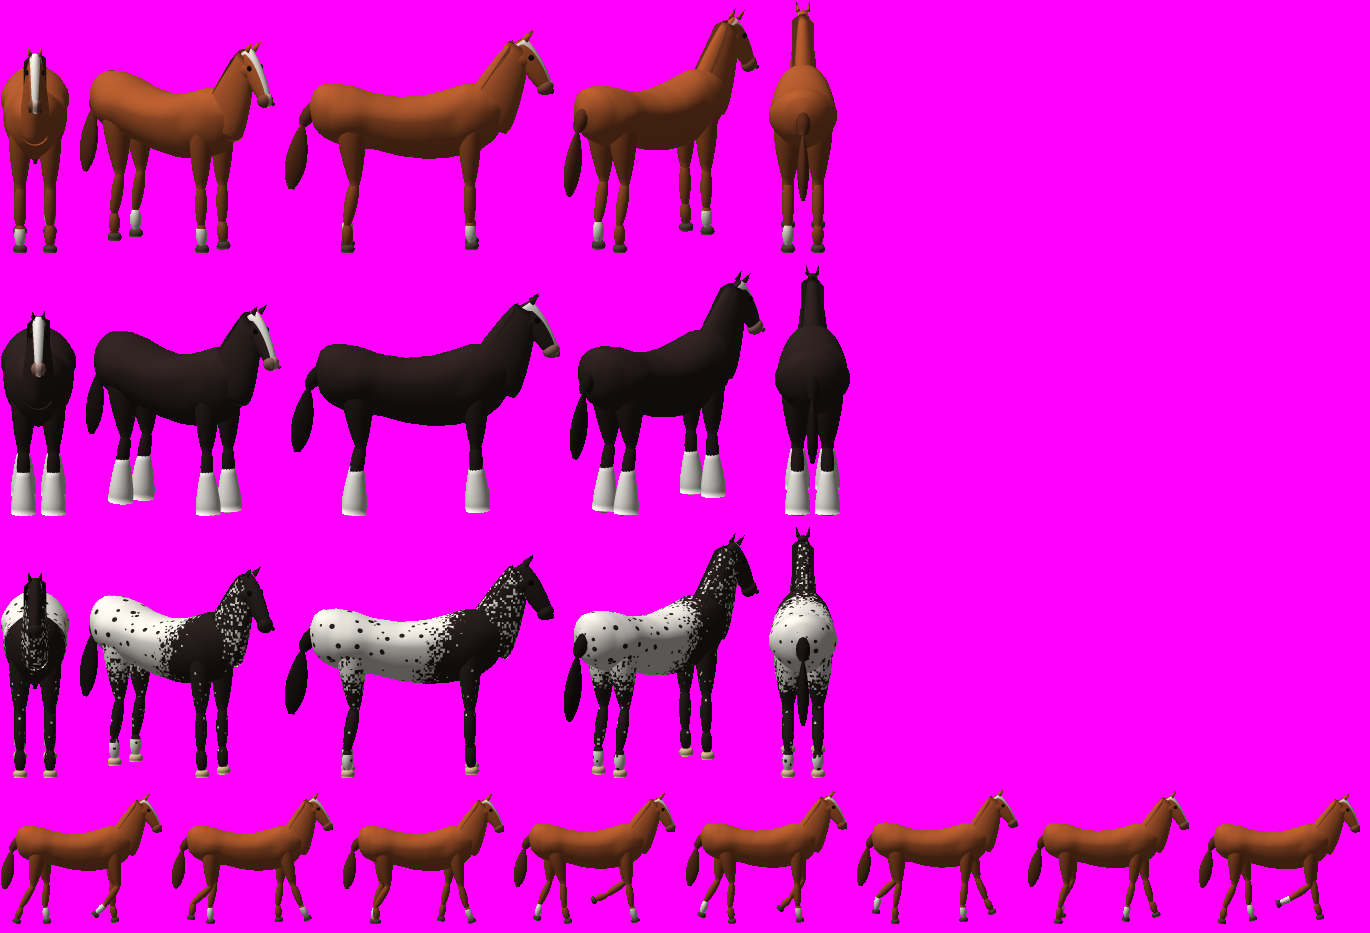
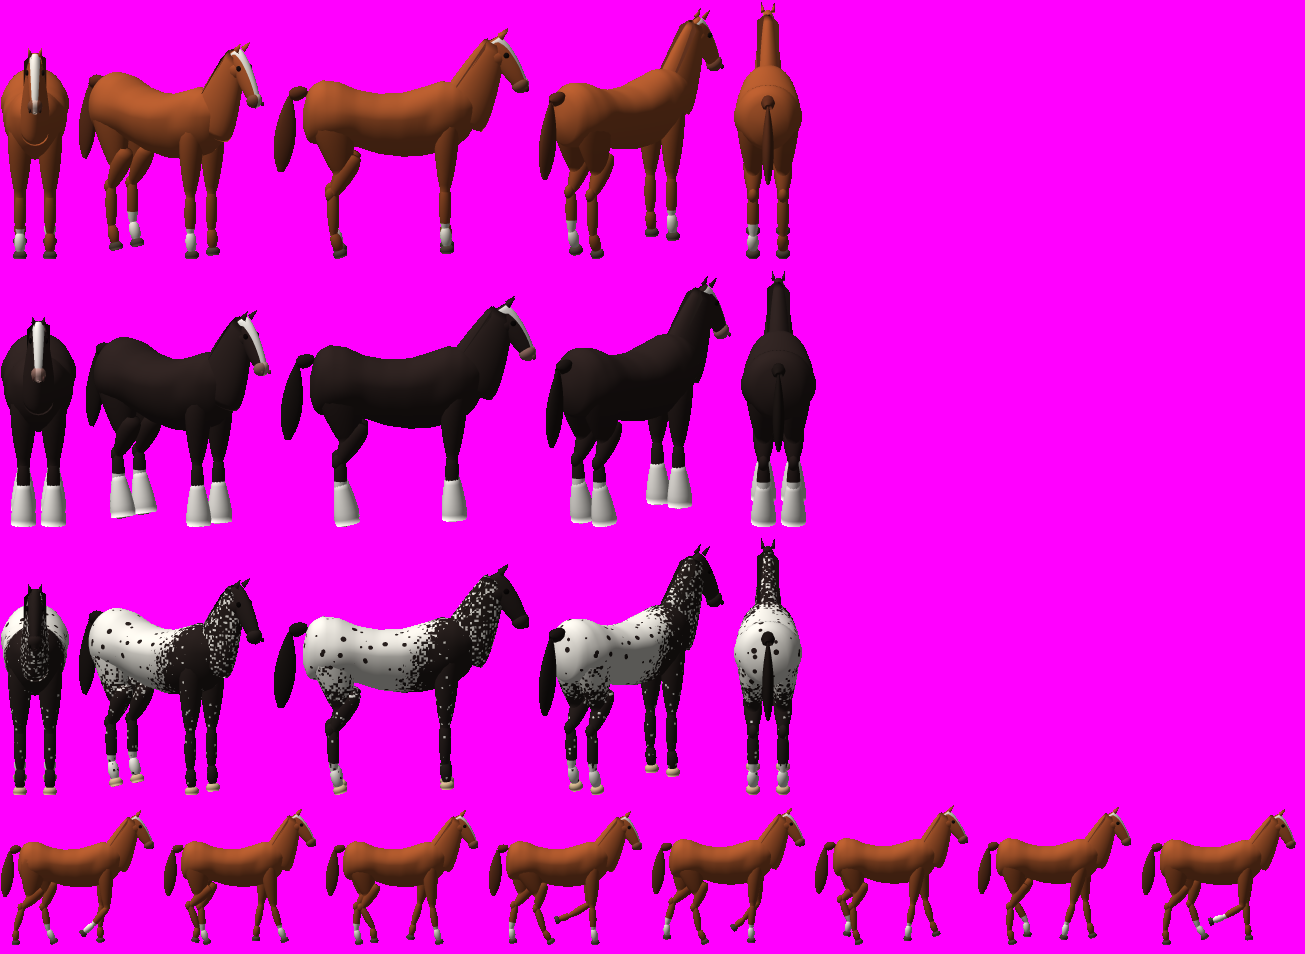
Horse model: rear after Maestro's MM7 Augmentation horses (shorter trunk, high round croup and buttock, thigh down to the stifle, gaskin back to a clear hock, upright cannon, tail set high and falling close); legs posed by swing and fold
Claude-Session: https://claude.ai/code/session_0181Jni9kZvd4mFTeovm6zfw

diff --git a/Tools/horse_model.py b/Tools/horse_model.py
@@ -86,12 +86,12 @@ def ribbon(g, pts, offs, part):
         g.quad(a, b, b + offs[i + 1], a + offs[i], part)
 
 # trunk stations: x, centre height, radius up, radius down, half width
-TRUNK = [(-102, 141, 5, 7, 5), (-98, 141, 17, 20, 16), (-90, 140, 24, 28, 25), (-76, 139, 26, 34, 30),
-         (-58, 137, 25, 37, 31), (-38, 134, 21, 35, 31), (-12, 131, 20, 39, 32), (14, 131, 22, 42, 32),
-         (36, 134, 25, 44, 30), (54, 137, 28, 43, 27), (70, 139, 25, 40, 24), (82, 140, 18, 32, 19),
-         (91, 141, 10, 20, 12), (97, 142, 3, 6, 4)]
+TRUNK = [(-92, 128, 8, 10, 7), (-89, 131, 20, 24, 19), (-83, 134, 27, 32, 26), (-72, 137, 29, 36, 30),
+         (-56, 137, 27, 37, 31), (-38, 134, 22, 35, 31), (-16, 131, 21, 39, 32), (8, 131, 22, 42, 32),
+         (28, 134, 25, 44, 30), (46, 137, 28, 43, 27), (61, 139, 25, 40, 24), (72, 140, 18, 32, 19),
+         (80, 141, 10, 20, 12), (85, 142, 3, 6, 4)]
 # the shoulder (front) and the hip (back) stand out from the sides: (x, y, rx, ry, extra width)
-MUSCLES = [(56, 120, 20, 26, 3.5), (-64, 132, 24, 26, 4.0)]
+MUSCLES = [(48, 120, 20, 26, 3.5), (-60, 124, 26, 30, 4.5)]
 
 def trunk(g, xf, heavy, n=32, k=46):
     st = np.array(TRUNK, float)
@@ -120,16 +120,24 @@ def trunk(g, xf, heavy, n=32, k=46):
 
 # ---------------------------------------------------------------- the horse
 
-FRONT_X, HIND_X, LEG_Z = 58, -62, 15
-FRONT = (46, 38, 24)          # forearm, cannon, pastern (elbow to the ground)
-HIND = (52, 42, 24)           # gaskin, cannon, pastern (stifle to the ground)
+FRONT_X, HIND_X, LEG_Z = 50, -58, 15
+FRONT = (46, 38, 22)          # forearm, cannon, pastern (elbow to the ground)
+HIND = (46, 40, 21)           # gaskin, cannon, pastern (stifle to the ground)
+HIP_Y, STIFLE = 132, np.array((18.0, -40.0))     # the stifle lies forward and below the hip
 
 def leg_points(top, lengths, angles):
-    pts = [np.asarray(top, float)]; a = 0.0
-    for L, d in zip(lengths, angles):
-        a += d
+    """angles: absolute, from straight down (+ forward)"""
+    pts = [np.asarray(top, float)]
+    for L, a in zip(lengths, angles):
         pts.append(pts[-1] + (L * math.sin(a), -L * math.cos(a), 0))
     return pts
+
+def leg_angles(name, theta, flex):
+    """theta swings the whole leg (+ forward), flex folds it (0 straight .. 1 folded for a step):
+    the foreleg's knee bends the cannon back, the hind hock bends it forward; the hoof flips back."""
+    if name[1] == 'f':
+        return (theta, theta - 1.05 * flex, theta + 0.1 - 1.4 * flex)
+    return (theta - 0.5 - 0.25 * flex, theta + 0.02 + 0.45 * flex, theta + 0.32 - 0.5 * flex)
 
 def geometry(pose, heavy=1.0, feathers=False):
     g = Geo()
@@ -144,7 +152,7 @@ def geometry(pose, heavy=1.0, feathers=False):
     trunk(g, xf, heavy)
     # neck
     na, ha = pose.get('neck', 0.0), pose.get('head', 0.0)
-    base = xf((76, 148, 0))
+    base = xf((68, 148, 0))
     a1 = math.radians(60) + na + pitch
     ndir = np.array([math.cos(a1), math.sin(a1), 0])
     nup = np.array([-ndir[1], ndir[0], 0])                  # towards the crest
@@ -174,20 +182,31 @@ def geometry(pose, heavy=1.0, feathers=False):
     ribbon(g, [f0, f0 + hd * 14], [np.array((0, 0, 4.5)), np.array((0, 0, -4.5))], 'mane')
     # tail: a dock and a fall of hair
     ta, ts = pose.get('tail', 0.0), pose.get('tail_side', 0.0)
-    t0 = xf((-97, 146, 0))
-    t1 = t0 + np.array([-math.sin(math.radians(28) + ta), -math.cos(math.radians(28) + ta), ts * 0.3]) * 26
-    t2 = t1 + np.array([-0.18 + 0.4 * math.sin(ta), -1, ts]) / 1.05 * 68
+    t0 = xf((-88, 156, 0))
+    t1 = t0 + np.array([-math.sin(math.radians(72) + ta), -math.cos(math.radians(72) + ta), ts * 0.3]) * 18
+    t2 = t1 + np.array([-0.12 + 0.4 * math.sin(ta), -1, ts]) / 1.01 * 78
     limb(g, t0, t1, 6, 8, 'tail', n=8, k=5)
     limb(g, t1, t2, 8.5, 12.5, 'tail', n=12, k=8, flat=0.55, cap=0.7)
     # legs
-    for name, x, z, lengths, ur in (('lf', FRONT_X, LEG_Z, FRONT, 14.0), ('rf', FRONT_X, -LEG_Z, FRONT, 14.0),
-                                     ('lh', HIND_X, LEG_Z, HIND, 19.0), ('rh', HIND_X, -LEG_Z, HIND, 19.0)):
-        topp = xf((x, 110 if name[1] == 'f' else 116, z))
-        pts = leg_points(topp, lengths, pose['legs'][name])
+    for name, x, z in (('lf', FRONT_X, LEG_Z), ('rf', FRONT_X, -LEG_Z), ('lh', HIND_X, LEG_Z), ('rh', HIND_X, -LEG_Z)):
+        theta, flex = pose['legs'][name]
         part = 'leg_' + name
-        limb(g, pts[0] + (0, 26, 0), pts[1], ur * heavy, 7.4 * heavy, part, n=14, k=10, cap=0.25)
+        if name[1] == 'f':
+            top = xf((x, 102, z))
+            pts = leg_points(top, FRONT, leg_angles(name, theta + pitch, flex))
+            limb(g, top + (2, 30, 0), pts[1], 15 * heavy, 7.4 * heavy, part, n=14, k=10, cap=0.25)   # forearm
+        else:
+            hip = xf((x, HIP_Y, z))
+            c, s_ = math.cos(theta + pitch), math.sin(theta + pitch)
+            stifle = hip + (STIFLE[0] * c - STIFLE[1] * s_, STIFLE[0] * s_ + STIFLE[1] * c, 0)
+            pts = leg_points(stifle, HIND, leg_angles(name, theta + pitch, flex))
+            # the thigh: the hip's muscle mass down to the stifle and the back of the gaskin
+            mid = stifle * 0.55 + pts[1] * 0.45
+            limb(g, hip + (-8, 14, 0), mid + (-3, 0, 0), 27 * heavy, 12 * heavy, part, n=16, k=12, flat=0.74, cap=0.2)
+            limb(g, stifle, pts[1], 12 * heavy, 6.5 * heavy, part, n=14, k=8, cap=0.3)               # gaskin
+            ellipsoid(g, pts[1] + (-2.5, 1, 0), 5.5 * heavy, 7.5 * heavy, 5.0 * heavy, part, n=10, k=6)  # point of hock
         u1 = (pts[2] - pts[1]) / np.linalg.norm(pts[2] - pts[1])
-        limb(g, pts[1] - u1 * 5, pts[2] + u1 * 3, 6.6 * heavy, 5.6 * heavy, part, n=12, k=7, cap=0.45)   # knee / hock to fetlock
+        limb(g, pts[1] - u1 * 5, pts[2] + u1 * 3, 6.6 * heavy, 5.6 * heavy, part, n=12, k=7, cap=0.45)   # cannon
         limb(g, pts[2] - u1 * 3, pts[3] + (pts[2] - pts[3]) * 0.12, 6.0 * heavy, 5.6 * heavy, part, n=12, k=5, cap=0.45)
         d = pts[3] - pts[2]; d /= np.linalg.norm(d)
         limb(g, pts[3] - d * 5, pts[3] + d * 2.5, 6.6 * heavy, 7.6 * heavy, 'hoof', n=14, k=3, cap=0.12)
@@ -220,9 +239,9 @@ def spots(P, size, density, seed=1, rmin=0.18, rmax=0.42):
 def mix(mask, a, b):
     return np.where(mask[:, None], np.array(a, float), np.array(b, float))
 
-REST = {'legs': {'lf': (0.0, 0.0, 0.08), 'rf': (0.0, 0.0, 0.08), 'lh': (0.1, -0.3, 0.24), 'rh': (0.1, -0.3, 0.24)}}
+REST = {'legs': {'lf': (0.0, 0.0), 'rf': (0.0, 0.0), 'lh': (0.0, 0.0), 'rh': (0.0, 0.0)}}
 _a1 = math.radians(60); _a2 = math.radians(-58)
-REST_HEAD_TOP = np.array((76, 148, 0)) + np.array([math.cos(_a1), math.sin(_a1), 0]) * 64
+REST_HEAD_TOP = np.array((68, 148, 0)) + np.array([math.cos(_a1), math.sin(_a1), 0]) * 64
 REST_HD = np.array([math.cos(_a2), math.sin(_a2), 0])
 REST_UP = np.array([-REST_HD[1], REST_HD[0], 0]) * (1 if REST_HD[0] >= 0 else -1)
 
@@ -298,21 +317,16 @@ STAND = REST['legs']
 
 def walk_pose(phase):
     """Four-beat walk: left hind, left fore, right hind, right fore a quarter apart; a leg spends
-    35% of the cycle in the air, its knee / hock folding and the hoof flipping back."""
+    35% of the cycle in the air (swinging forward, folded), and the rest on the ground, swinging
+    back as the body passes over the hoof."""
     legs = {}
     for name, off in (('lh', 0.0), ('lf', 0.25), ('rh', 0.5), ('rf', 0.75)):
         ph = (phase + off) % 1.0
-        if ph < 0.35:                                    # swing
-            s = math.sin(math.pi * ph / 0.35); u = ph / 0.35
-            if name[1] == 'f':
-                legs[name] = (-0.22 + 0.62 * u, -1.05 * s, -0.35 * s + 0.08)
-            else:
-                legs[name] = (-0.22 + 0.58 * u, -0.3 - 0.55 * s, 0.24 + 0.55 * s)
-        else:                                            # stance: the hoof stays, the body passes over
+        if ph < 0.35:
+            u = ph / 0.35
+            legs[name] = (-0.3 + 0.6 * u, math.sin(math.pi * u))
+        else:
             u = (ph - 0.35) / 0.65
-            if name[1] == 'f':
-                legs[name] = (0.4 - 0.62 * u, 0.0, 0.08 + 0.12 * u)
-            else:
-                legs[name] = (0.36 - 0.58 * u, -0.3, 0.24)
+            legs[name] = (0.3 - 0.6 * u, 0.0)
     return {'legs': legs, 'neck': 0.05 * math.sin(4 * math.pi * phase), 'head': 0.0,
             'tail': 0.06 * math.sin(2 * math.pi * phase), 'height': 1.2 * math.cos(4 * math.pi * phase)}
